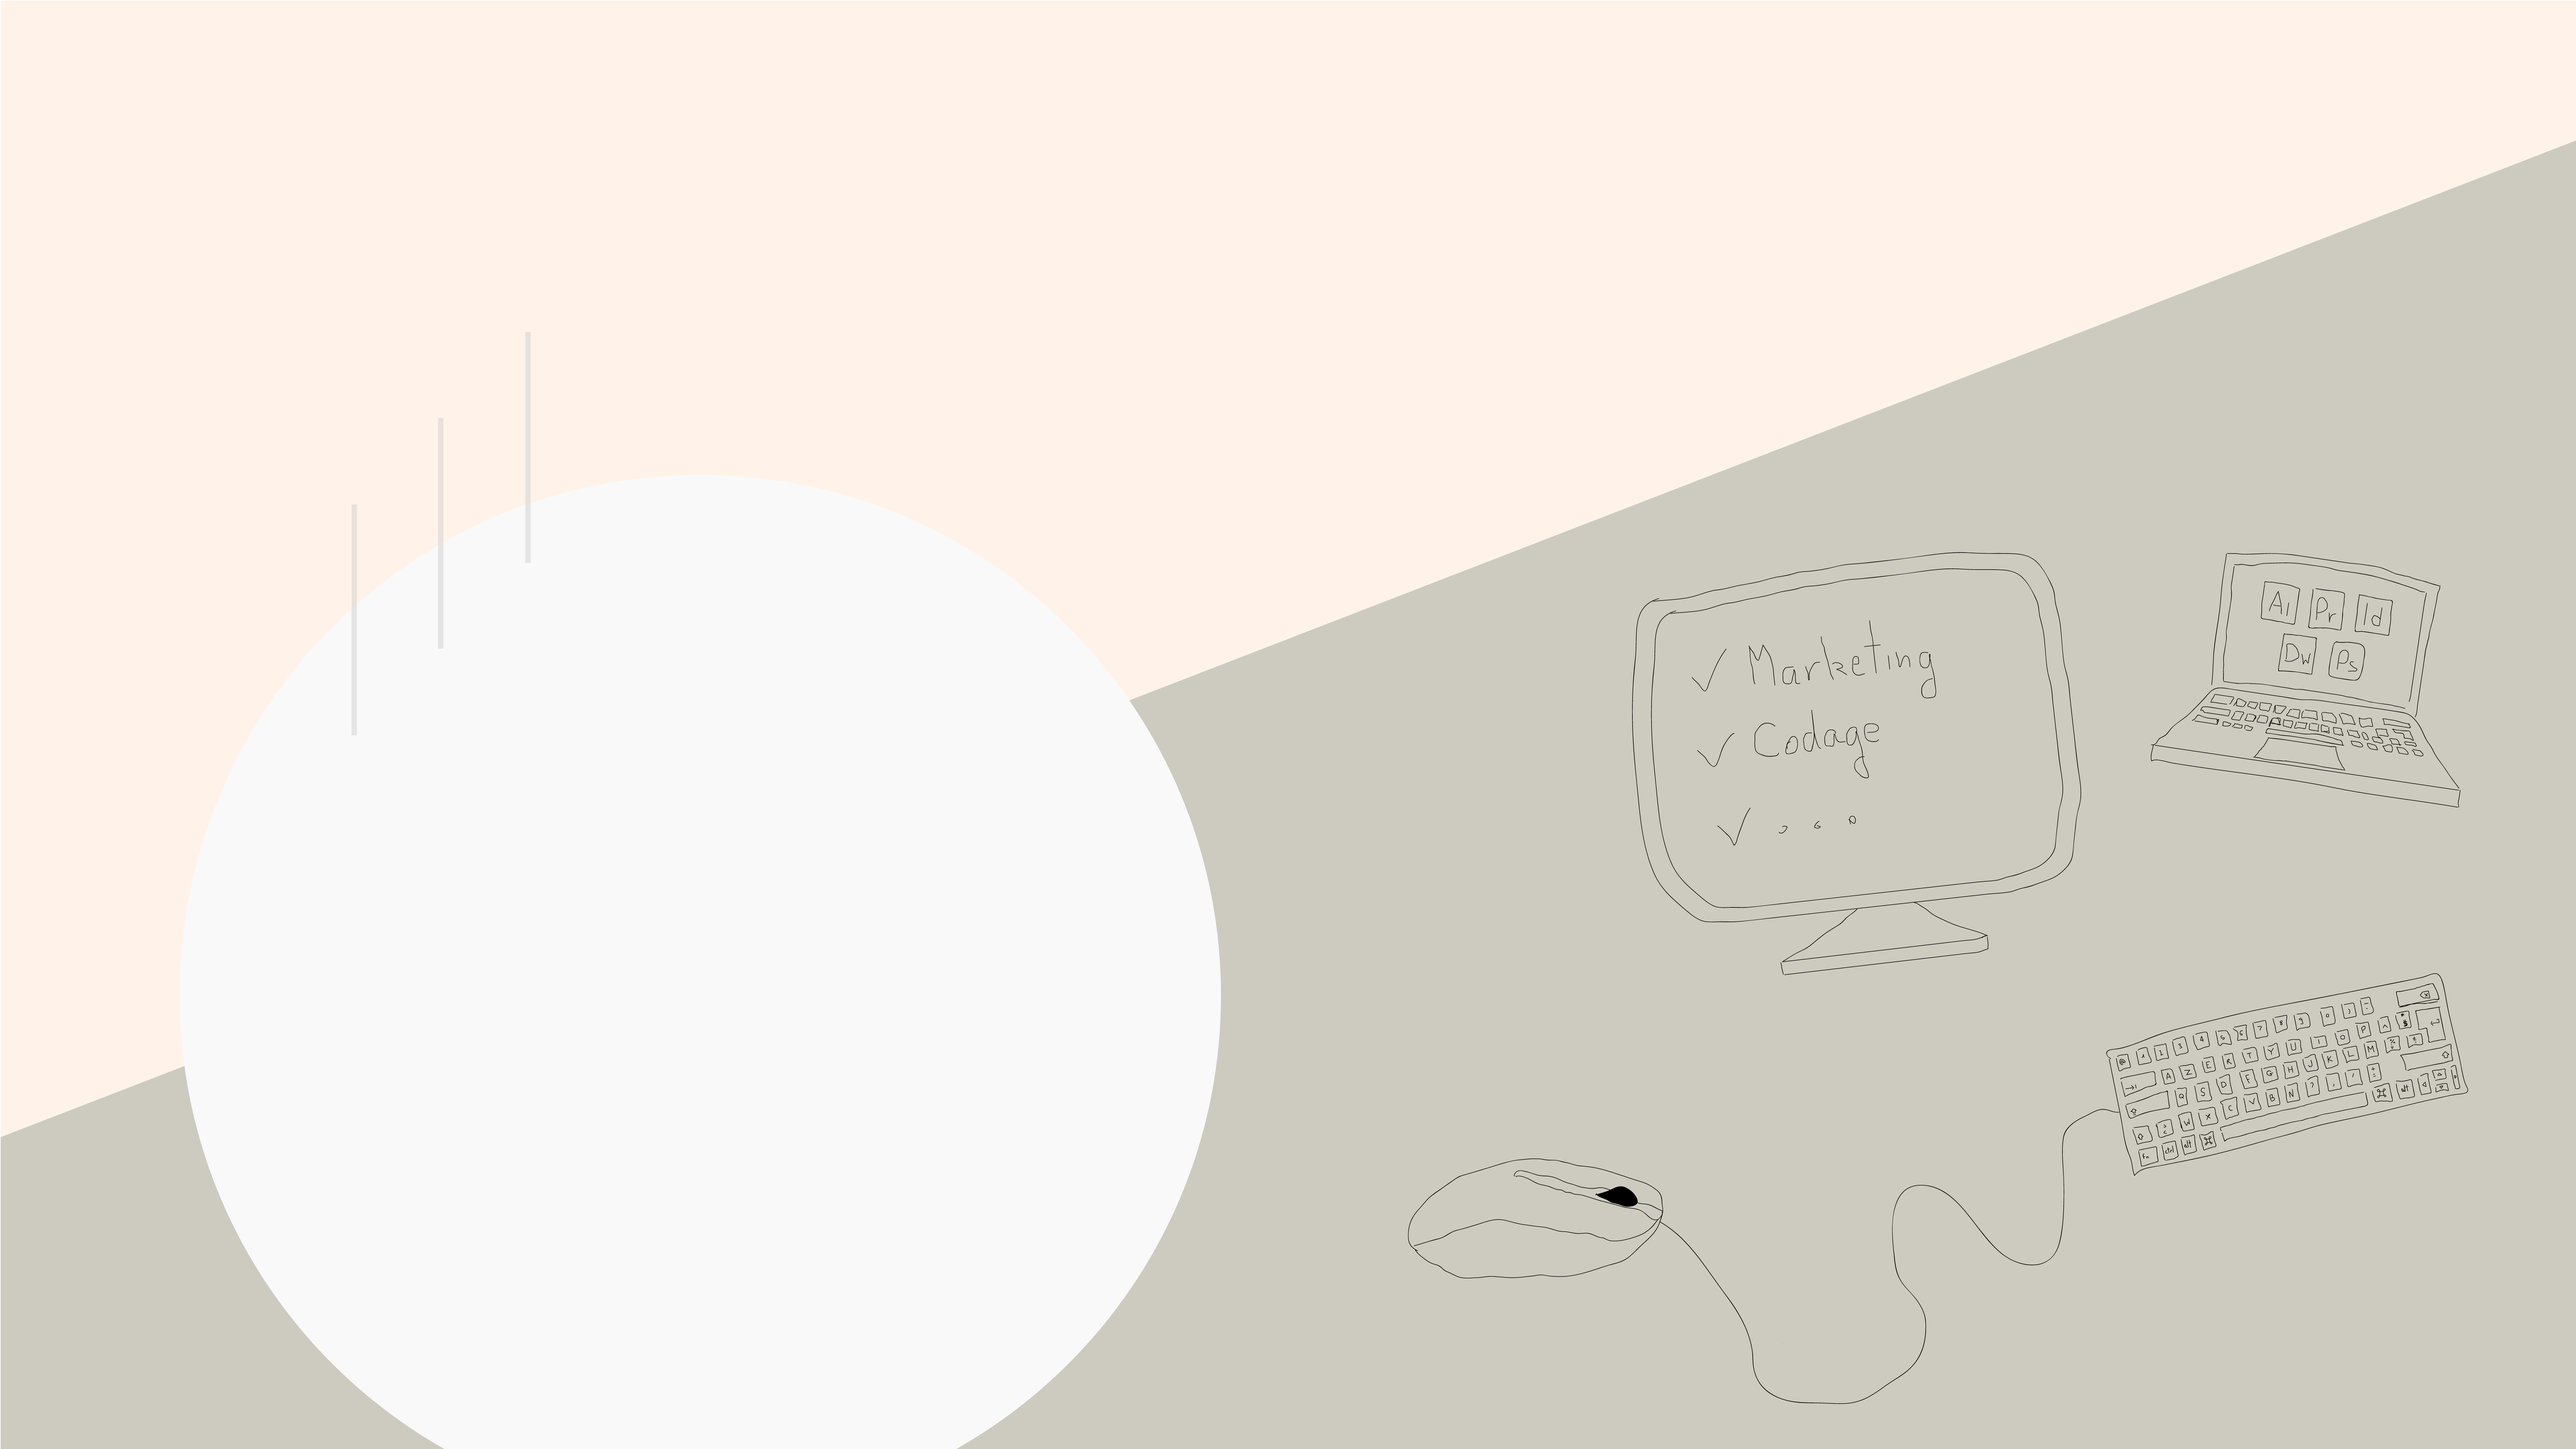
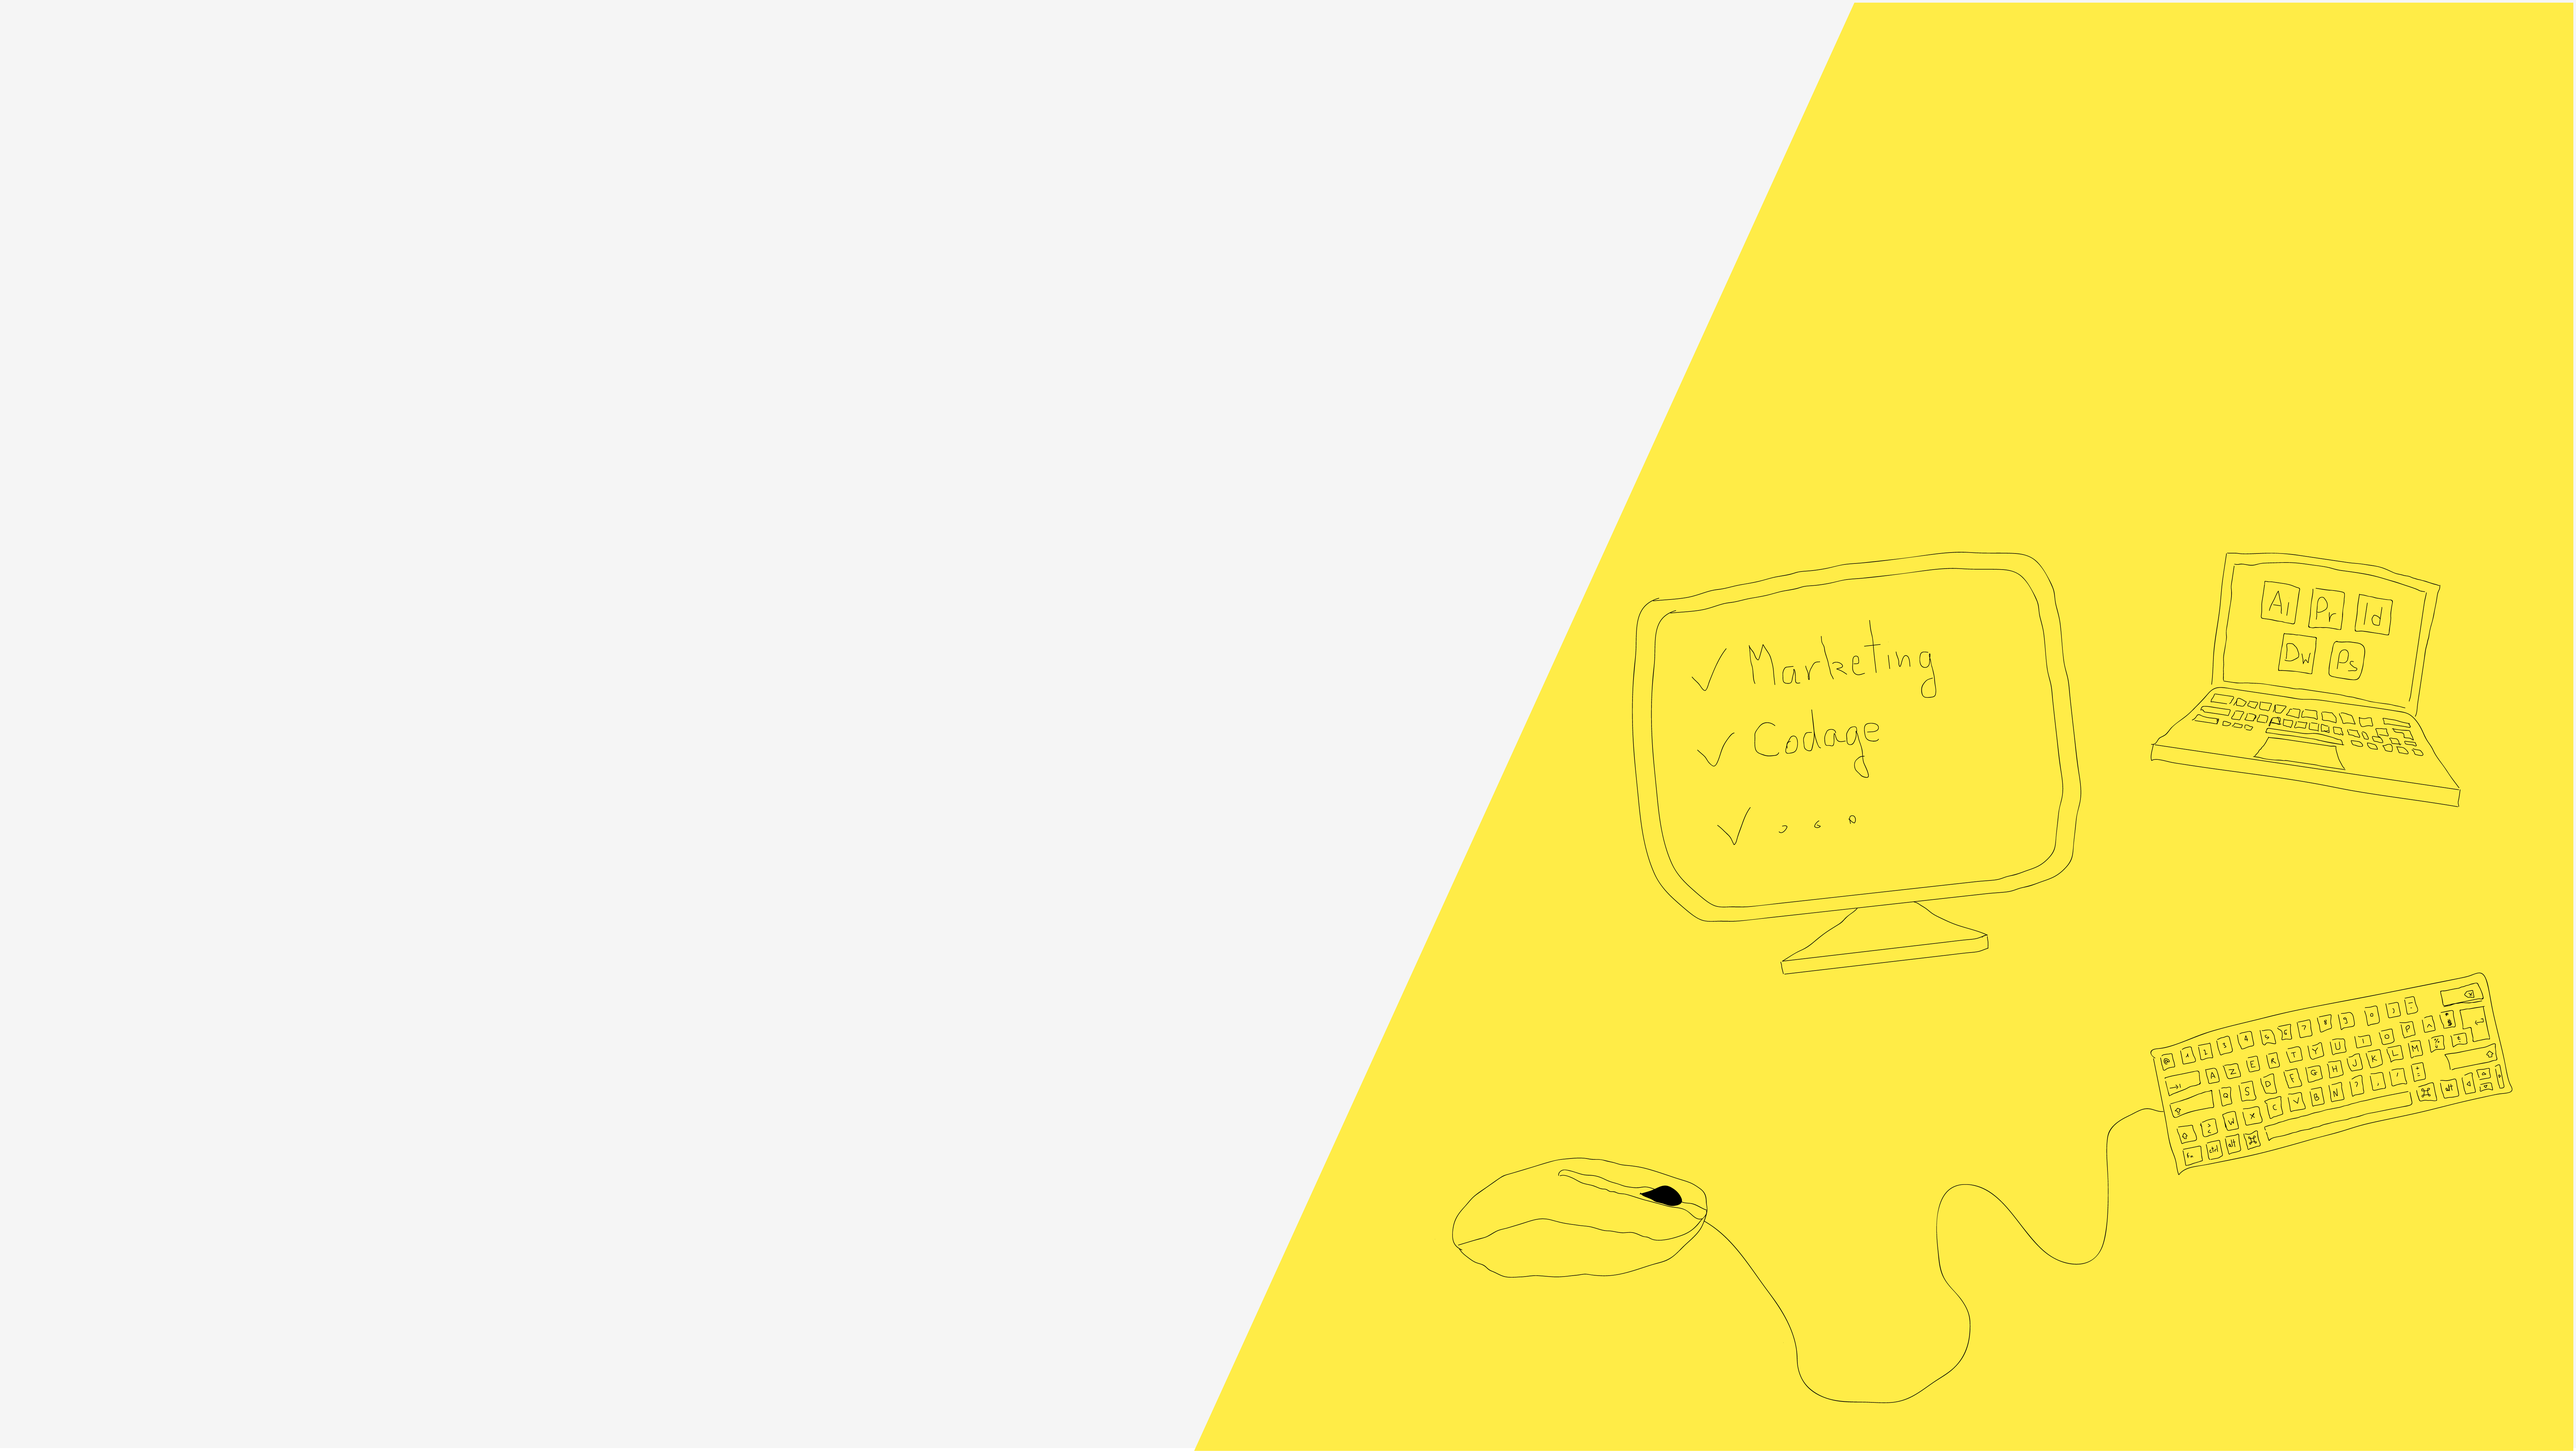
fin

diff --git a/style/design.css b/style/design.css
@@ -1,5 +1,5 @@
 body {
-	background: url("../Images/background2.png") no-repeat center center fixed;
+	background: url("../Images/background3.png") no-repeat center center fixed;
 	  -webkit-background-size: cover;
   -moz-background-size: cover;
   -o-background-size: cover;
